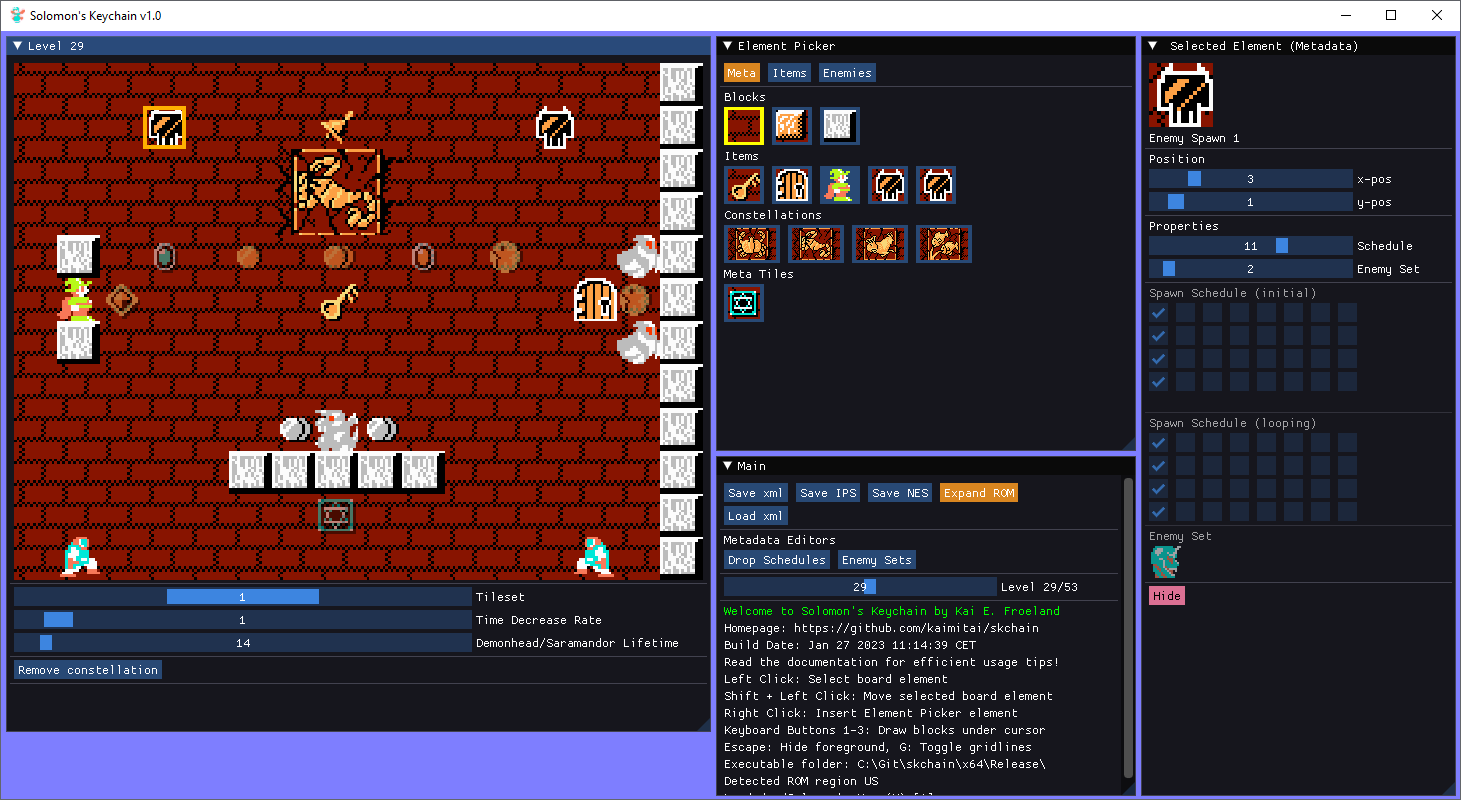
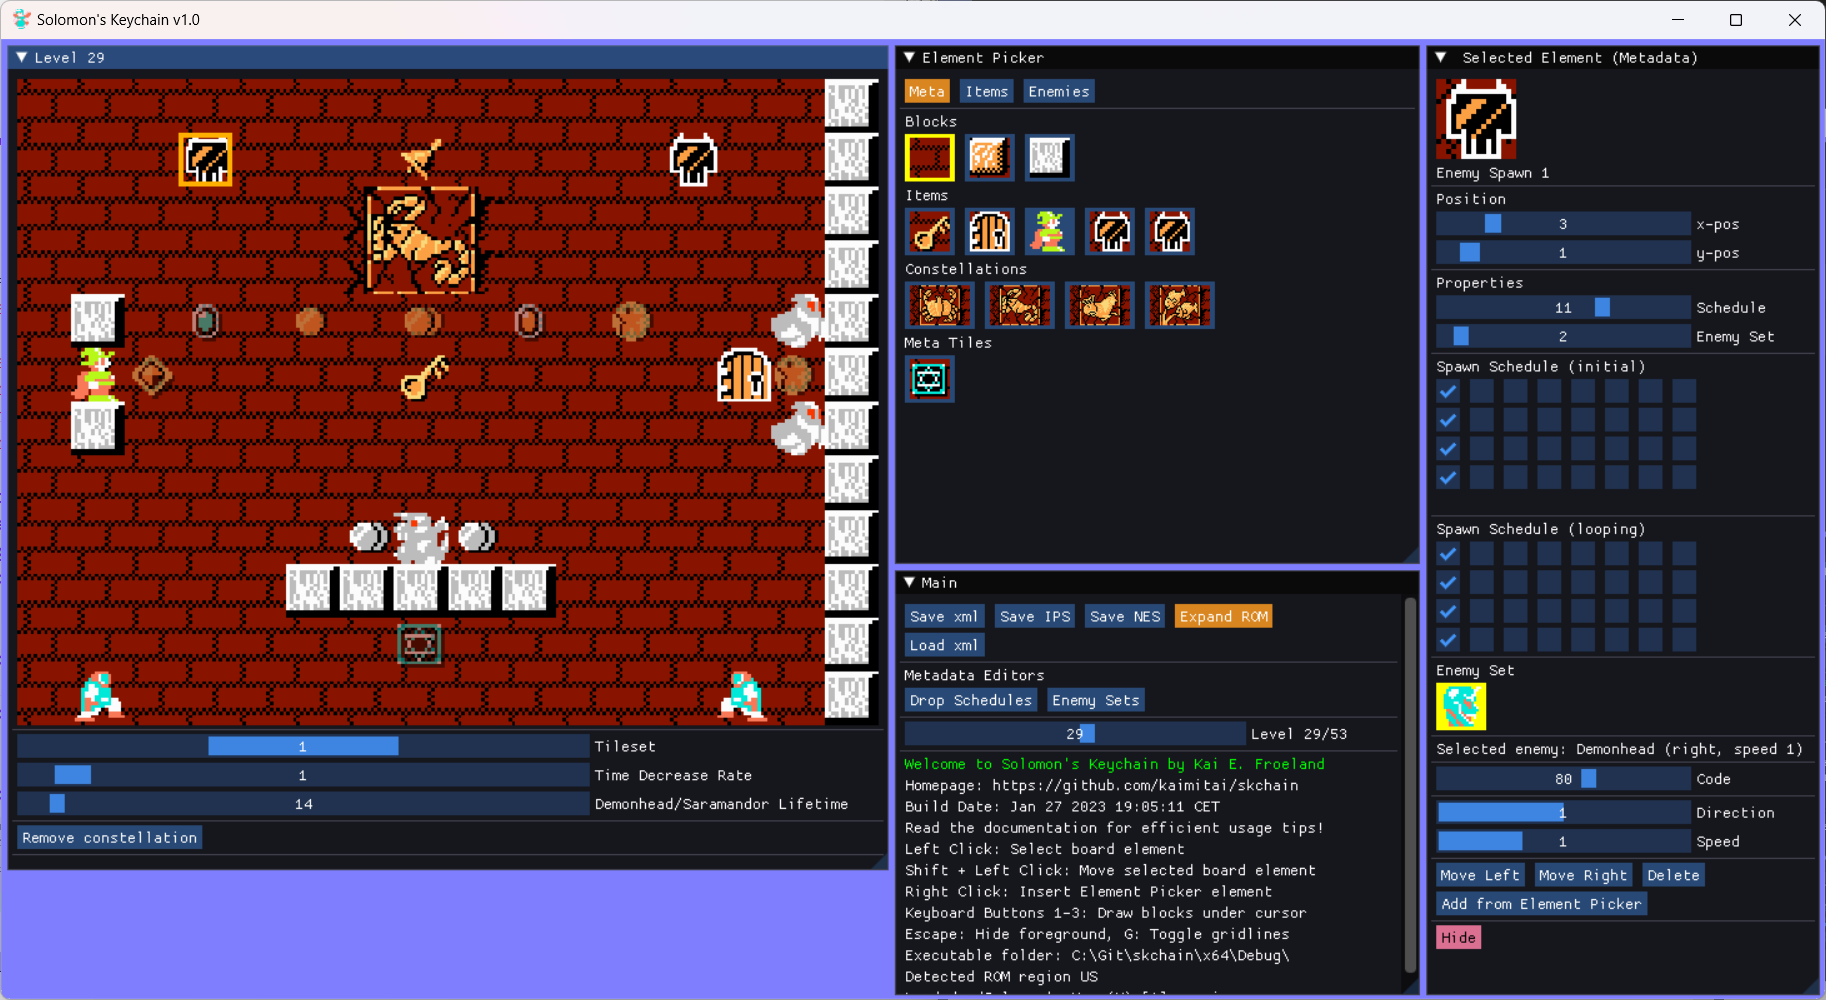
Final touches before release v1.0

diff --git a/docs/readme.html b/docs/readme.html
@@ -281,13 +281,14 @@
 
             <section class="main-section" id="changelog">
 
-                <header>2023-01-xx: v1.0</header>
+                <header>2023-01-27: v1.0</header>
                 <ul>
                     <li>Added support for ROM expansion, to exceed the original size limits! (adds compatibility with <a href="https://www.romhacking.net/utilities/906/">skedit</a>)</li>
                     <li>Added support for editing demon mirror drop rate schedules and enemy sets directly from the Selected Demon Mirror-window</li>
                     <li>Added support for drawing background blocks regardless of editing mode (using keyboard buttons 1-3)</li>
                     <li>Made it possible to hide all metadata elements (placing them at position <b>(0, -1)</b>)</li>
                     <li>Added support for setting item/enemy code directly - among all possible codes - from the "Selected Element"-window</li>
+					<li>Can now turn off foreground rendering by holding keyboard button <b>Escape</b></li>
                 </ul>
 
                 <header>2023-01-23: v0.2</header>

diff --git a/readme.md b/readme.md
@@ -7,7 +7,7 @@ Make sure to read the included documentation (readme.html in the docs folder) fo
 <hr>
 
 ### Editor Capabilities
-The editor allows you to alter level data: Block layout, level enemies and items, as well as level metadata. Both the US, EU and JP-versions of the ROM are supported. In addition we support editing game metadata; Demon Mirror enemy drop sets and schedules.
+The editor allows you to alter level data: Block layout, level enemies and items, as well as level metadata. Both the US, EU and JP-versions of the ROM are supported. In addition we support editing game metadata; Demon Mirror enemy drop sets and schedules. On top of this, we are able to expand the ROM to vastly exceed the original data size limits.
 <br></br>
 ![alt text](./docs/images/01_editor.png)
 ###### The editor will show level and game metadata information
@@ -27,12 +27,15 @@ The [ROM map document](./docs/solomon's_key_rom_map.md) contains all information
 
 <hr>
 
-### Development Roadmap
-* Support saving NES-file using a different ROM mapper, to make space for more items/enemies in the ROM than the original developers had available (SKEdit-compatibility)
-
-<hr>
-
 ### Version History
+
+2022-01-27: v1.0
+* Added support for ROM expansion, to exceed the original size limits! (adds compatibility with <a href="https://www.romhacking.net/utilities/906/">skedit</a>)
+* Added support for editing demon mirror drop rate schedules and enemy sets directly from the Selected Demon Mirror-window
+* Added support for drawing background blocks regardless of editing mode (using keyboard buttons 1-3)
+* Made it possible to hide all metadata elements (placing them at position <b>(0, -1)</b>)
+* Added support for setting item/enemy code directly - among all possible codes - from the "Selected Element"-window
+* Can now turn off foreground rendering by holding keyboard button <b>Escape</b>
 
 2022-01-23: v0.2
 * The application will now automatically deduce the ROM region (US/EU/JP) based on the input ROM-file, and load the corresponding configuration
